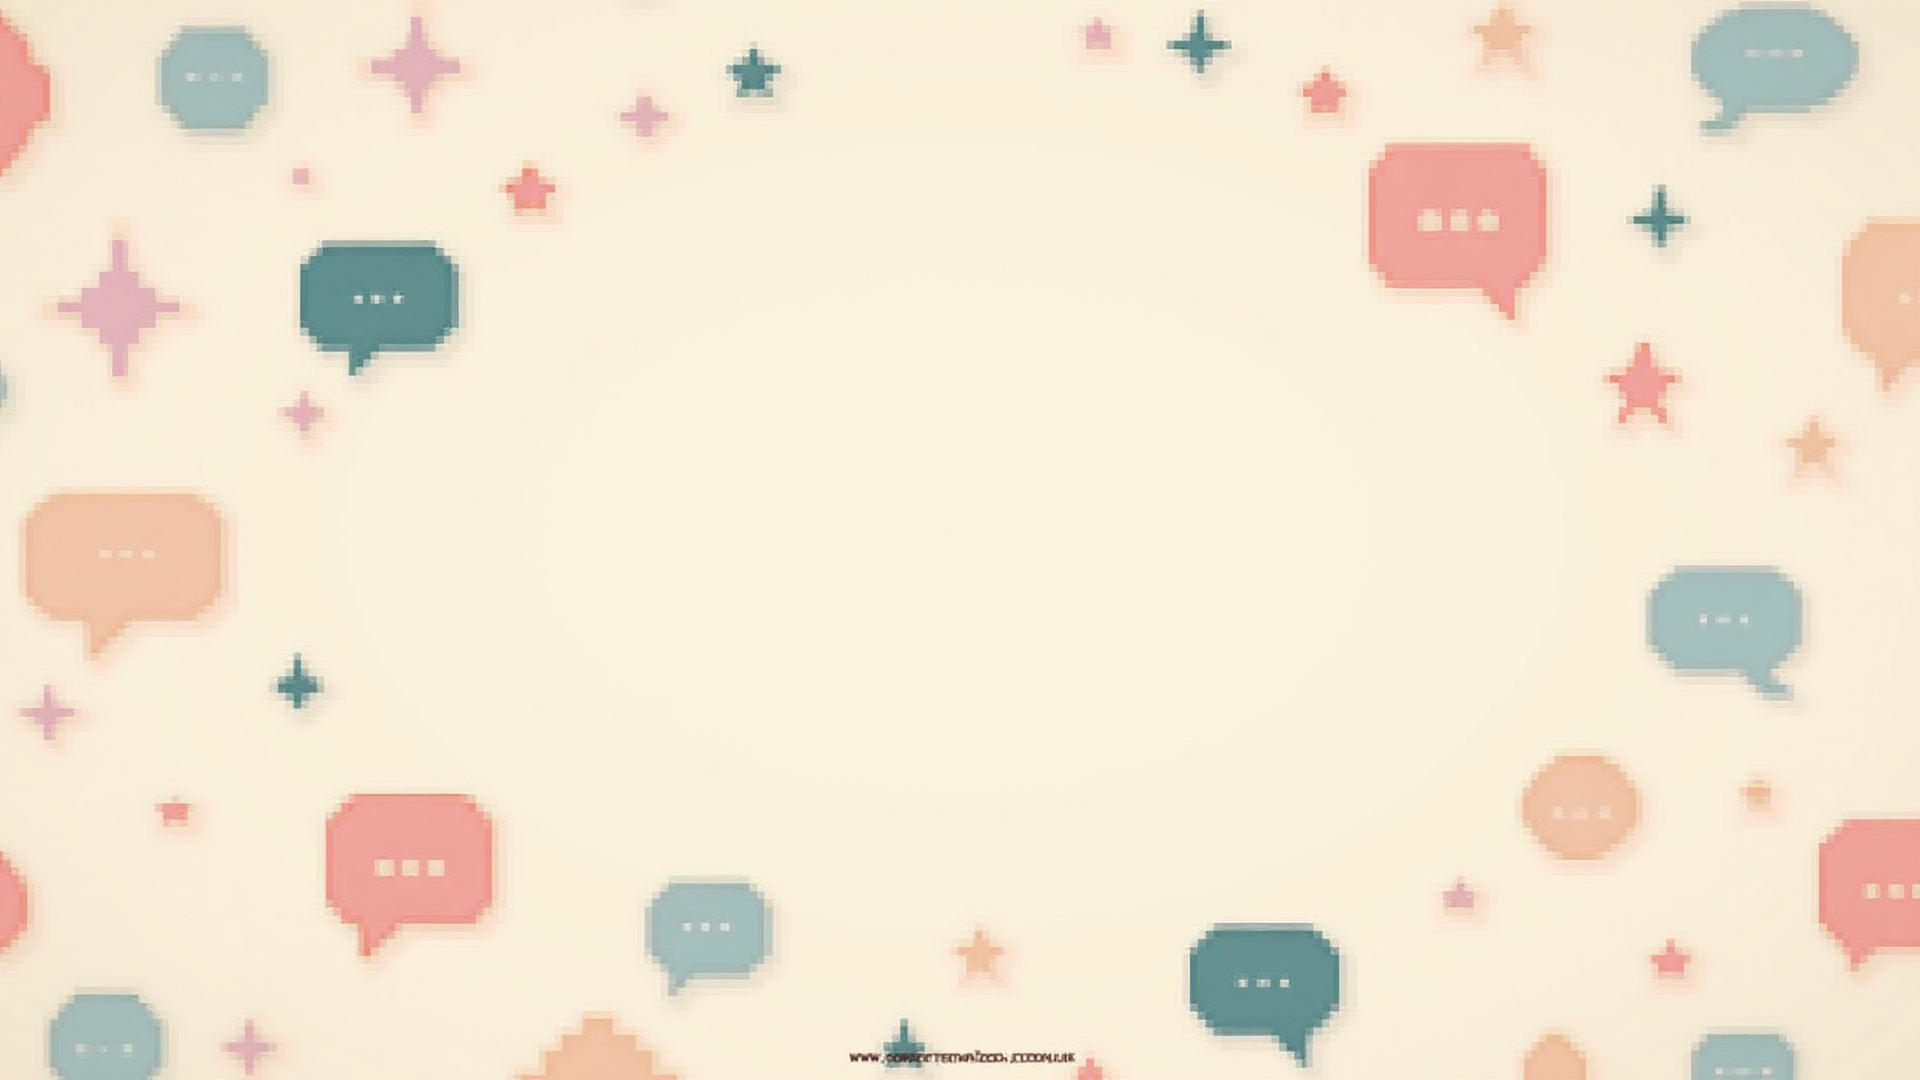
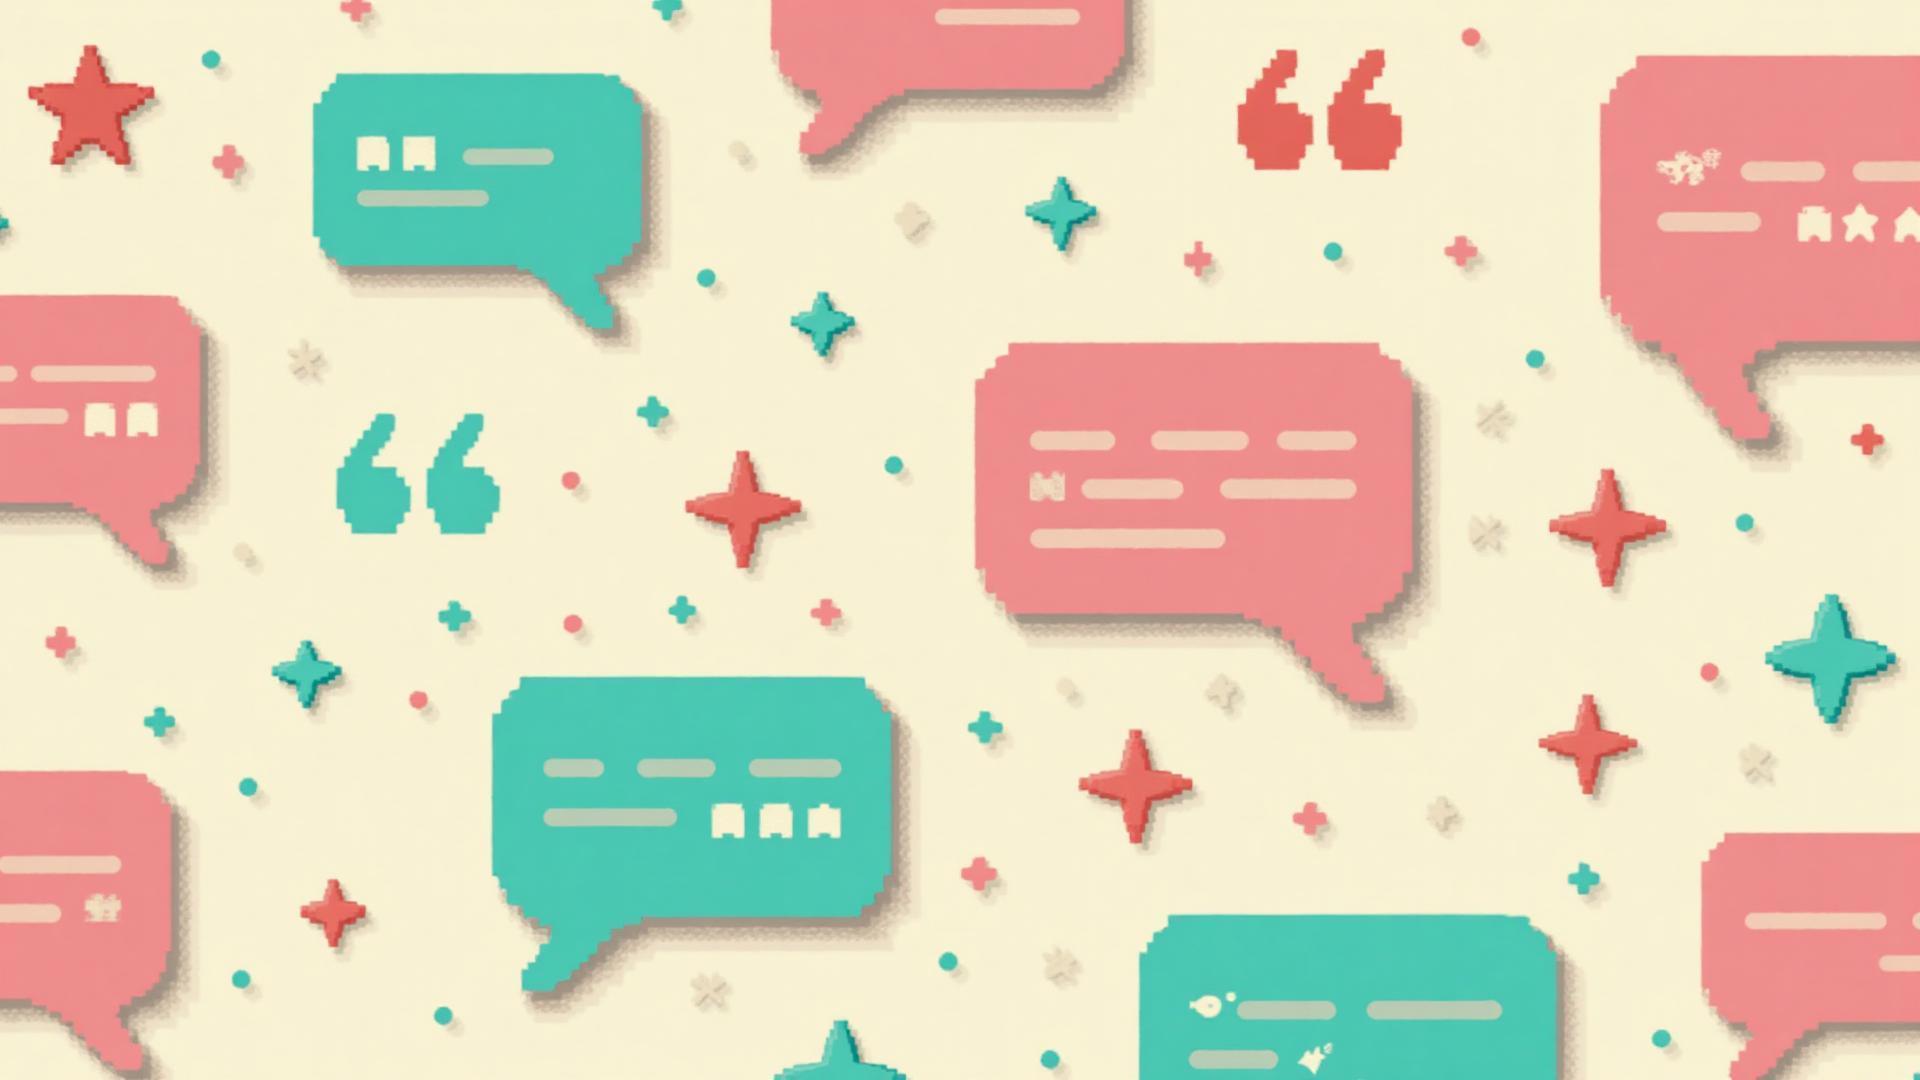
Changes

diff --git a/src/pages/Testimonials.tsx b/src/pages/Testimonials.tsx
@@ -83,19 +83,20 @@ const Testimonials = () => {
     },
   ];
   return (
-    <div className="min-h-screen flex flex-col bg-background relative">
-      <div 
-        className="fixed inset-0 opacity-10 pointer-events-none"
-        style={{
-          backgroundImage: `url(${testimonialsBg})`,
-          backgroundSize: 'cover',
-          backgroundPosition: 'center',
-          backgroundRepeat: 'no-repeat',
-        }}
-      />
-      <Header />
+    <div className="min-h-screen flex flex-col bg-background">
+      <div className="flex-grow relative">
+        <div 
+          className="absolute inset-0 opacity-20 pointer-events-none"
+          style={{
+            backgroundImage: `url(${testimonialsBg})`,
+            backgroundSize: 'cover',
+            backgroundPosition: 'center',
+            backgroundRepeat: 'no-repeat',
+          }}
+        />
+        <Header />
 
-      <main className="flex-grow container mx-auto px-4 pt-32 pb-16">
+        <main className="relative container mx-auto px-4 pt-32 pb-16">
         <motion.div
           initial={{
             opacity: 0,
@@ -176,7 +177,8 @@ const Testimonials = () => {
             ))}
           </div>
         </motion.div>
-      </main>
+        </main>
+      </div>
 
       <footer className="py-8 px-4 pixel-border border-b-0 border-x-0">
         <div className="container mx-auto text-center">
